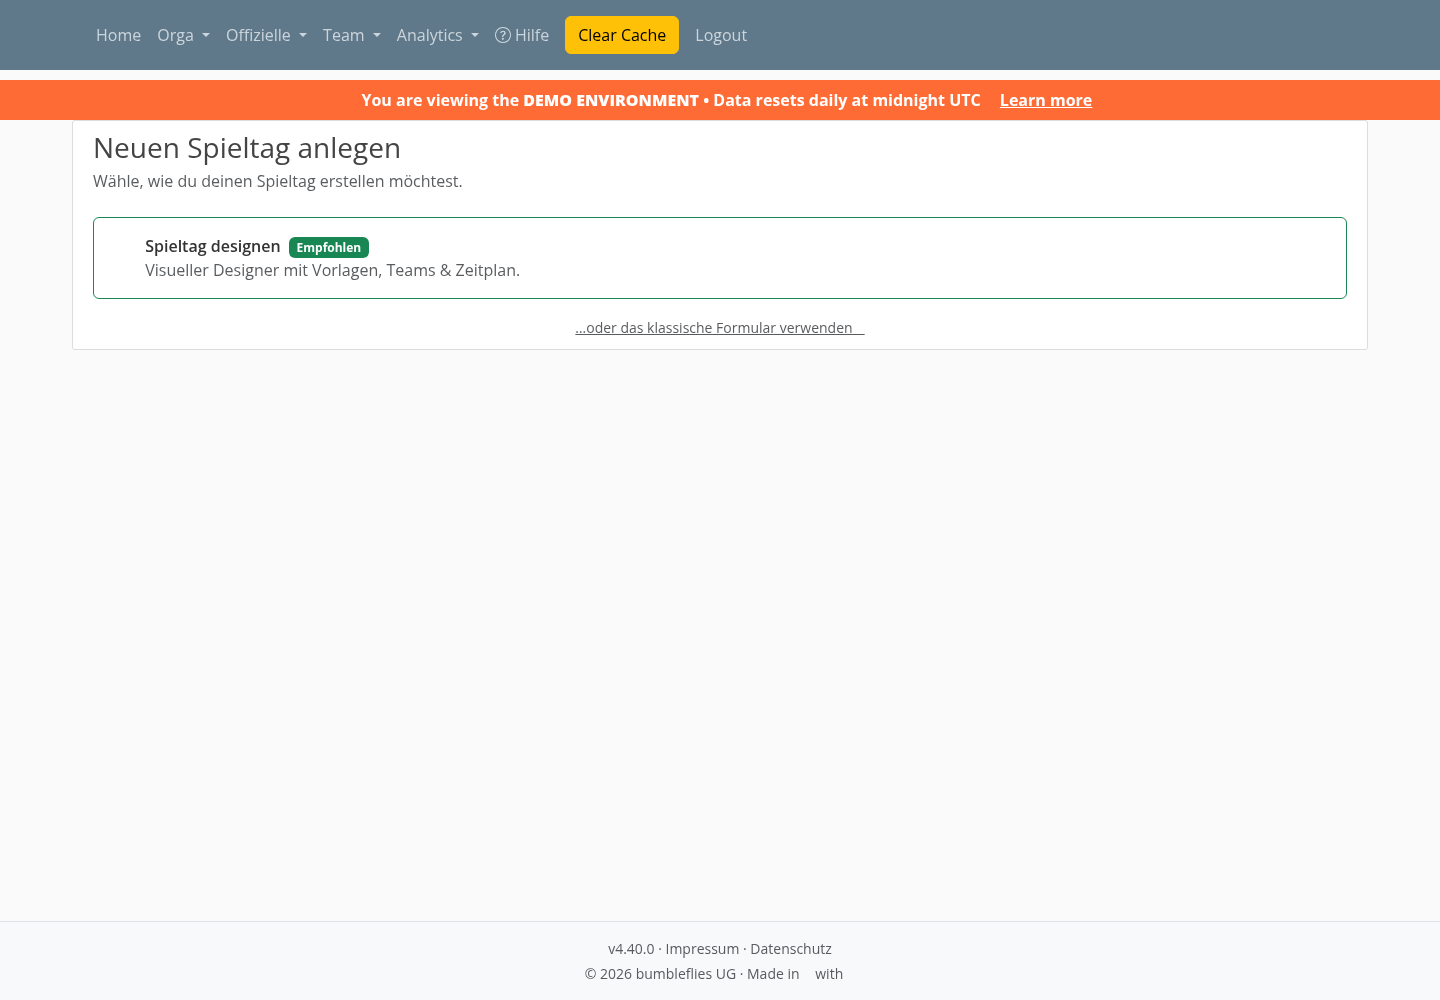
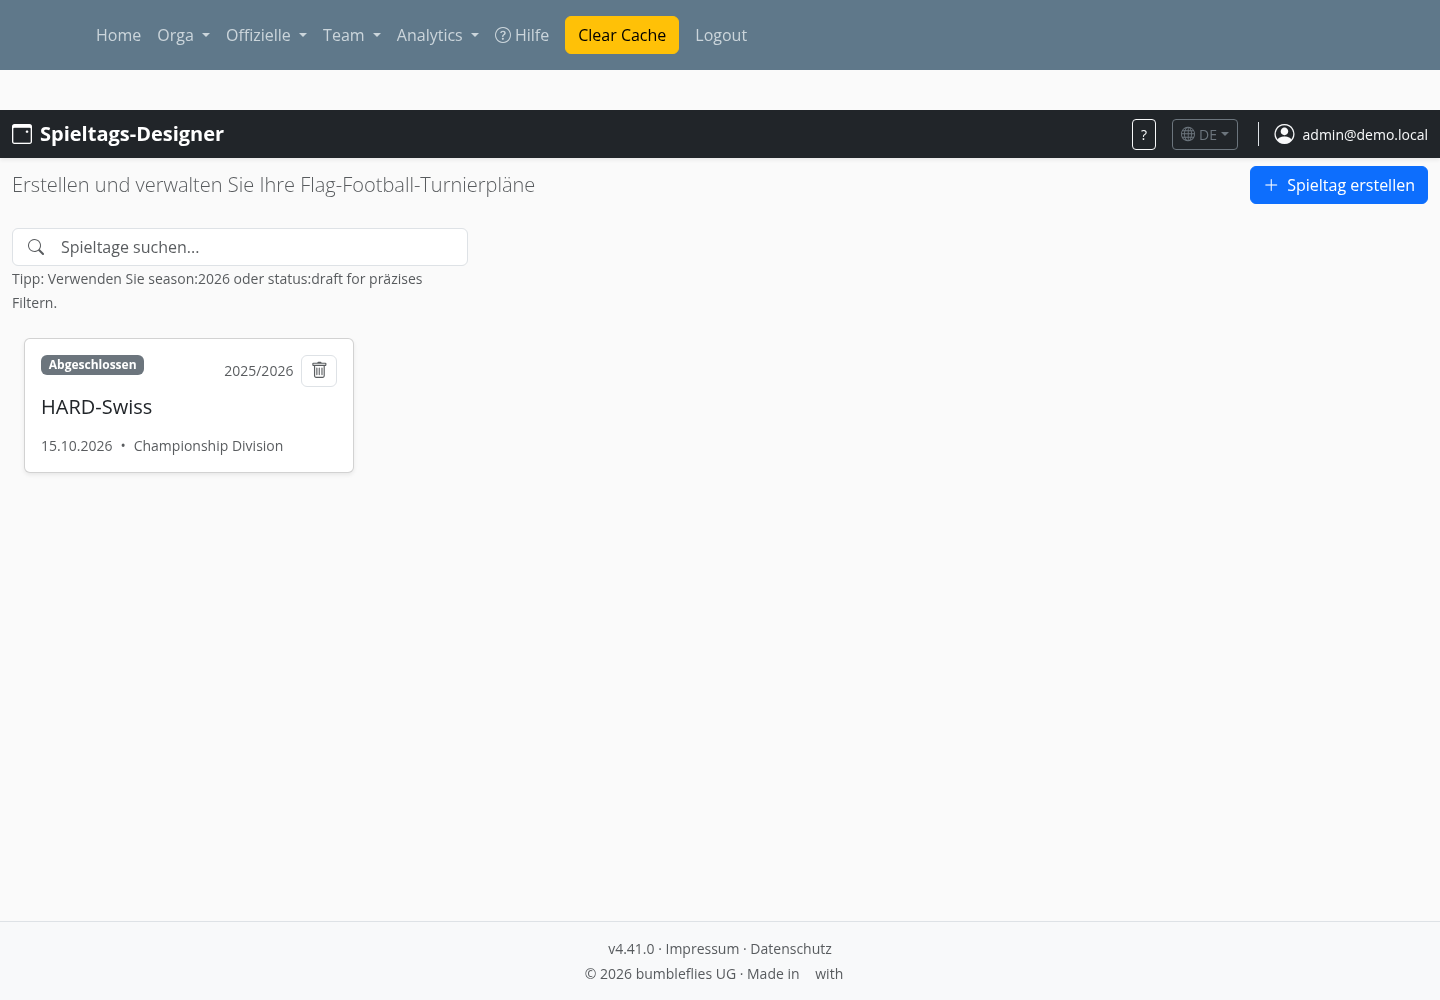
docs(help): lead liga-verwalten with the Gameday Designer (#2072)
* docs(help): lead liga-verwalten with the Gameday Designer

* docs(help): reconcile liga-verwalten storyboard and plan with designer-first

---------

diff --git a/league_manager/help/registry.py b/league_manager/help/registry.py
@@ -160,12 +160,12 @@ HELP_TOPICS = [
         group="spielbetrieb",
         title={"de": "Liga & Spieltag verwalten", "en": "Running a gameday"},
         summary={
-            "de": "Einen Spieltag anlegen, Teams und Felder festlegen und den Spielplan veröffentlichen.",
-            "en": "Create a gameday, set teams and fields, and publish the schedule.",
+            "de": "Einen Spieltag mit dem Gameday Designer anlegen, Teams und Felder festlegen und den Spielplan veröffentlichen.",
+            "en": "Create a gameday with the Gameday Designer, set teams and fields, and publish the schedule.",
         },
         icon="bi-clipboard-plus",
         order=5,
-        video="https://www.youtube.com/embed/876HYWyVNFs",
+        video="https://www.youtube.com/embed/Ek3yec2hqK0",
     ),
     HelpTopic(
         slug="ergebnisse-erfassen",

diff --git a/docs/topics/planning/current/2026-10-15-league-and-results-help-videos-plan.md b/docs/topics/planning/current/2026-10-15-league-and-results-help-videos-plan.md
@@ -8,12 +8,14 @@
 
 **Tech Stack:** `record-tutorial` skill (chrome-devtools-mcp + `slideshow.py`/`ffmpeg`), Python-Markdown (help loader), Django (help views + tests), YouTube (manual upload/host).
 
+> **Revision (2026-10-16):** The `liga-verwalten` topic now leads with the **Gameday Designer** as the recommended way to create a gameday, documents the classic form only as the alternative, and reuses the designer walkthrough video (`Ek3yec2hqK0`) instead of the classic-form recording (`876HYWyVNFs`). See branch `feat/help-liga-verwalten-designer-first`. Notes below that say "classic form" reflect the original, now-superseded decision.
+
 ---
 
 ## Scope & decisions (locked)
 
 - **Three topics, one per job** (user decision):
-  1. `liga-verwalten` — *"Liga & Spieltag verwalten"* — the **full staff league lifecycle** (overview): create a gameday via the classic form + wizard, then publish; points on to the officials and results topics. Uses the **classic form/wizard**, NOT the designer (the designer already has its own video, `gameday-designer`).
+  1. `liga-verwalten` — *"Liga & Spieltag verwalten"* — the **full staff league lifecycle** (overview): create a gameday with the **Gameday Designer** (recommended) or the classic form + wizard, then publish; points on to the officials and results topics. _Revised: the designer leads (the designer's own video, `gameday-designer`, is reused here). Original decision was the classic form/wizard only._
   2. `ergebnisse-erfassen` — *"Ergebnisse erfassen"* — the **Scorecard** deep dive (select game → officials/coin toss → score logging → halftime → finalize/captains confirm).
   3. `offizielle-statistik` — *"Offizielle: Übersicht & Statistik"* — the **Offizielle menu** area: overview cards, statistics/leaderboard, all assignments, license check. Deep companion to the existing `teams-offizielle` topic (cross-link both ways).
 - **Group:** all three in the existing `spielbetrieb` ("Running your league") group. Orders `5`, `35`, `40` (see registry task).
@@ -193,7 +195,7 @@ class TestNewLeagueAndResultsTopics(TestCase):
 
 **Step 4: Write the three content files.** Each starts with `# <Title>` (the loader strips the H1), stays short (what it is → steps → *Häufige Fragen*), and includes one screenshot figure (Task 2 provides the image). Suggested outlines:
 
-`liga-verwalten.de.md` — what a gameday is; **Orga → Spieltag erstellen** → choose *Spieltag designen* (Link to `/help/gameday-designer/`) or the classic form; wizard steps (Gruppen/Felder/Format → Teams → Spielplan); publish; then → *Ergebnisse erfassen* and *Offizielle: Übersicht & Statistik*. FAQ: "Warum sehe ich den Menüpunkt nicht?" (nur Staff), "Muss ich den Designer nutzen?" (nein).
+`liga-verwalten.de.md` — what a gameday is; **Orga → Spieltag erstellen** → choose *Spieltag designen* (recommended; link to `/help/gameday-designer/`) with the classic form documented as the alternative; designer flow (Liga/Saison/Datum → Teams/Felder → Vorlage speichern); publish; then → *Ergebnisse erfassen* and *Offizielle: Übersicht & Statistik*. FAQ: "Warum sehe ich den Menüpunkt nicht?" (nur Staff), "Muss ich den Designer nutzen?" (empfohlen, aber nicht Pflicht).
 
 `ergebnisse-erfassen.de.md` — open `/scorecard/`, **Scorecard** wählen, Spieltag → Spiel **Auswählen/Start**, Offizielle + Münzwurf, Spielzüge mit **Eintrag speichern** (Touchdown/Serie/Mehr…), **Halbzeit**, **Ende**, Kapitäne **Bestätigen**, **Ergebnis abschicken**. FAQ: "Ergebnis falsch erfasst?" (Eintrag per Doppelklick löschen / *Spielstand bearbeiten*), "Wer darf erfassen?" (angemeldete Offizielle).
 
@@ -440,5 +442,5 @@ Expected: h264, 1920x1080; duration ≈ sum of storyboard `hold`s. Then confirm 
 - **No `data-testid`s** on the wizard and officials pages — storyboards target CSS ids/labels, which can drift with UI edits. Re-confirm selectors against the deployed build at record time.
 - **`/officials/einsaetze/` is cached 24h** (Flow 2) — a stale cache can show old/empty data; seed and wait before capturing.
 - **YouTube upload is manual** and gates Task 7; Tasks 1–5 and 8 can proceed independently.
-- **`liga-verwalten` vs `gameday-designer` overlap** — keep the lifecycle video on the classic form/wizard and link to the designer; do not re-record designer basics.
+- **`liga-verwalten` vs `gameday-designer` overlap** — the lifecycle topic now leads with the designer and reuses the designer walkthrough video, with the classic form documented as the alternative; do not re-record designer basics.
 ```

diff --git a/league_manager/help/content/liga-verwalten.de.md b/league_manager/help/content/liga-verwalten.de.md
@@ -2,25 +2,33 @@
 
 Ein Spieltag bündelt alle Spiele eines Ligatages oder Turniers: Uhrzeiten,
 Felder, Teams und Ergebnisse. Als Staff legst du den Spieltag an, ordnest die
-Teams zu und veröffentlichst den Spielplan.
+Teams zu und veröffentlichst den Spielplan – am besten mit dem **Gameday
+Designer**.
 
 <figure class="help-figure">
-  <img src="/static/help/img/liga-verwalten.png" alt="Spieltag anlegen mit Auswahl zwischen Designer und klassischem Formular">
-  <figcaption>Neuen Spieltag anlegen: entweder im Designer oder im klassischen Formular.</figcaption>
+  <img src="/static/help/img/liga-verwalten.png" alt="Gameday Designer mit der Liste der Spieltage und dem Knopf „Spieltag erstellen“">
+  <figcaption>Der Gameday Designer: Spieltage erstellen, verwalten und als Vorlage wiederverwenden.</figcaption>
 </figure>
 
-## Einen Spieltag anlegen
+## Einen Spieltag anlegen (empfohlen: Gameday Designer)
 
 1. Öffne im Menü **Orga → Spieltag erstellen**.
-2. Wähle **Spieltag designen** für den visuellen Designer (siehe
-   [Gameday Designer](/help/gameday-designer/)) oder
-   **…oder das klassische Formular verwenden**.
-3. Trage im Formular Name, Datum, Saison und Liga ein und klicke
-   **Spieltag erstellen**.
-4. Im Assistenten legst du Gruppen und Felder fest und wählst das Format,
+2. Wähle **Spieltag designen** – der Designer ist der empfohlene Weg. Details
+   und Vorlagen findest du unter [Gameday Designer](/help/gameday-designer/).
+3. Lege Liga, Saison und Datum fest und ordne Teams und Felder zu.
+4. Prüfe den erzeugten Spielplan und passe ihn an. Speichere ihn bei Bedarf als
+   **Vorlage**, um ihn später wiederzuverwenden.
+
+## Alternativ: klassisches Formular
+
+Über **…oder das klassische Formular verwenden** legst du einen Spieltag
+Schritt für Schritt im klassischen Assistenten an:
+
+1. Trage Name, Datum, Saison und Liga ein und klicke **Spieltag erstellen**.
+2. Im Assistenten legst du Gruppen und Felder fest und wählst das Format,
    dann **Weiter**.
-5. Ordne die Teams den Gruppen zu und klicke **Spielplan erstellen**.
-6. Prüfe den berechneten Spielplan und schließe den Assistenten ab.
+3. Ordne die Teams den Gruppen zu und klicke **Spielplan erstellen**.
+4. Prüfe den berechneten Spielplan und schließe den Assistenten ab.
 
 ## Danach
 
@@ -35,5 +43,5 @@ Teams zu und veröffentlichst den Spielplan.
 Das Anlegen von Spieltagen ist Staff vorbehalten.
 
 **Muss ich den Designer nutzen?**
-Nein. Der Designer ist der empfohlene Weg, das klassische Formular führt dich
-Schritt für Schritt durch dieselben Angaben.
+Der Designer ist der empfohlene Weg. Wenn du es lieber klassisch magst, führt
+dich das Formular Schritt für Schritt durch dieselben Angaben.

diff --git a/.claude/skills/record-tutorial/storyboards/liga-verwalten.de.md b/.claude/skills/record-tutorial/storyboards/liga-verwalten.de.md
@@ -1,5 +1,12 @@
 # Liga & Spieltag verwalten (Spieltag anlegen)
 
+> **Überholt (2026-10-16):** Die Hilfe-Seite `liga-verwalten` führt inzwischen den
+> **Gameday Designer** als empfohlenen Weg und bindet dessen Video ein
+> (`Ek3yec2hqK0`). Das klassische Formular ist nur noch die Alternative; das aus
+> diesem Storyboard erzeugte Video (`876HYWyVNFs`) wird nicht mehr verlinkt. Das
+> Storyboard bleibt als Aufzeichnung des klassischen Ablaufs erhalten.
+> Siehe Branch `feat/help-liga-verwalten-designer-first`.
+
 Rundgang durch das Anlegen eines Spieltags über den Chooser und das klassische
 Formular samt Assistent (Gruppen/Felder/Format -> Teams -> Spielplan).
 Orientierung an `league_manager/help/content/liga-verwalten.de.md`. Der Designer
